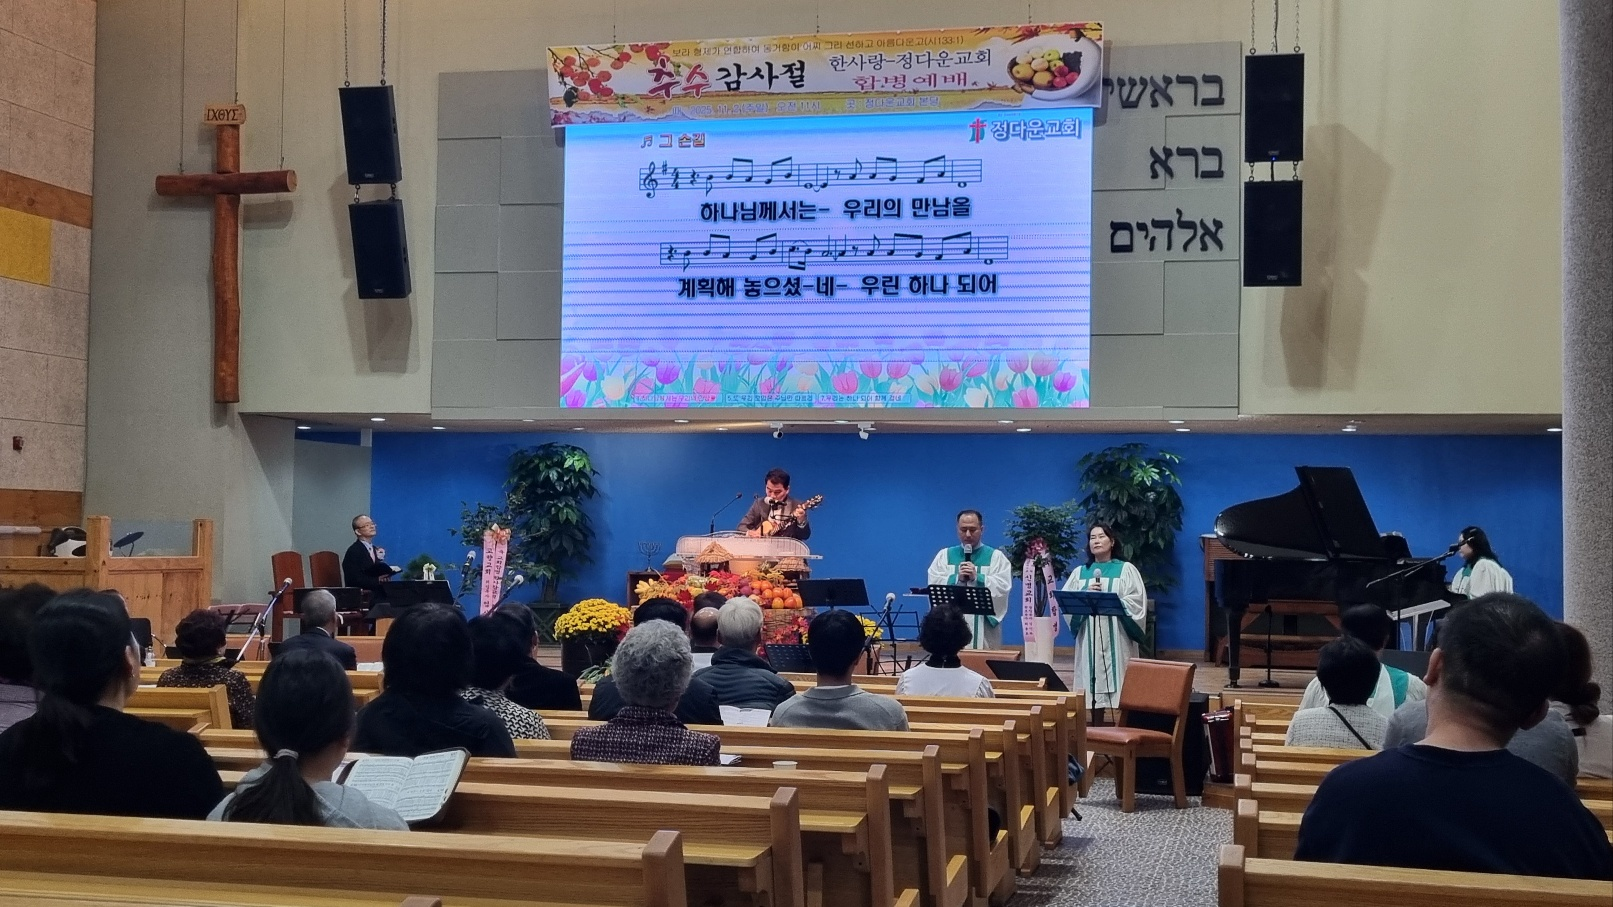
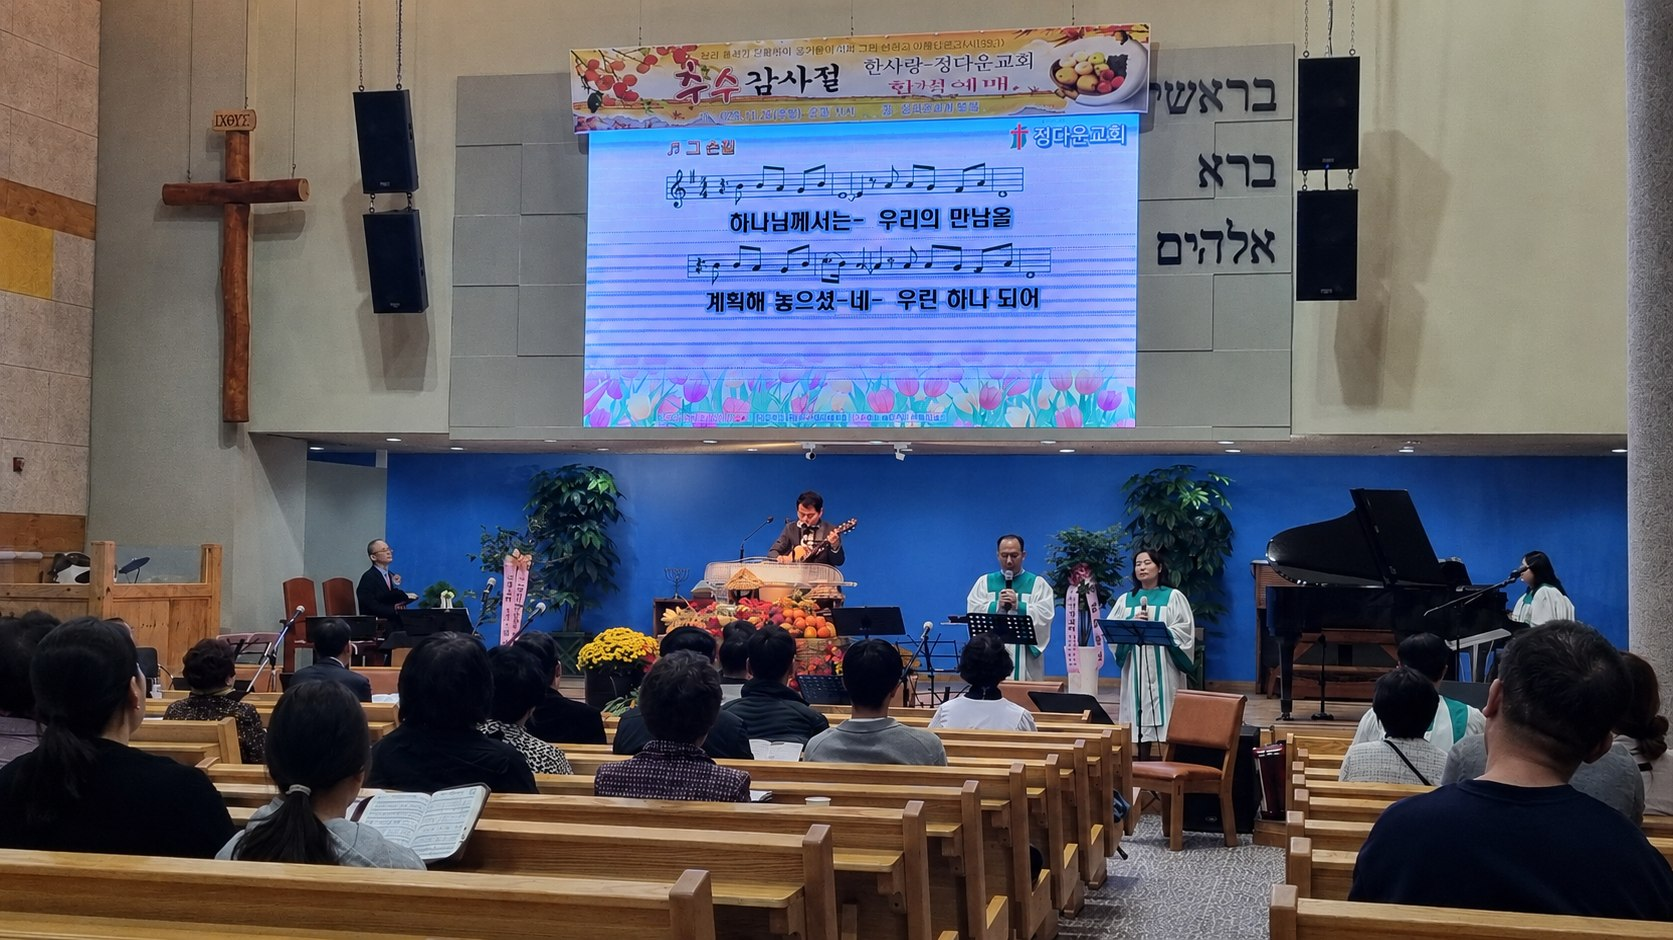
교회소개 사진 교체, 본문 순서 변경(문단 -> 연혁), 헤드라인 문구 수정
- 교회소개 사진을 새로 지정한 이미지로 교체
- 헤드라인 바로 아래에 소개 문단을 배치하고 연혁 목록을 그 다음으로 이동
- 헤드라인을 '누구나 편안하게 찾아올 수 있는 따뜻한 교회입니다'로 변경

diff --git a/index.html b/index.html
@@ -95,16 +95,16 @@
       </div>
       <div class="about-text">
         <p class="label reveal about-intro-label">교회소개</p>
-        <h2 class="block-title about-intro-heading reveal">정이 넘치고 따뜻한 사랑을 나누는 교회입니다</h2>
+        <h2 class="block-title about-intro-heading reveal">누구나 편안하게 찾아올 수 있는 따뜻한 교회입니다</h2>
+        <p class="block-body reveal">
+          정다운교회는 대한예수교장로회(통합)교단에 속해 있으며 1971년 9월 서울대 앞 신림동(일명 고시촌)에서 개척 설립되어 지역사회를 섬기며 특히 고시 청년선교에 힘쓰다가 2011년 11월 안양시 석수동에 교회를 신축 이전한 후 교육·복지·문화사역을 중심으로 지역과 함께하며 예수 그리스도의 사랑과 섬김을 실천하고 있습니다.
+        </p>
         <ul class="history-list reveal">
           <li><span class="history-year">1971년</span><span class="history-desc">교회 설립 (서울시 신림9동 고시촌)</span></li>
           <li><span class="history-year">2000년</span><span class="history-desc">이종운 목사 부임</span></li>
           <li><span class="history-year">2007년</span><span class="history-desc">석수동 성전 부지 매입</span></li>
           <li><span class="history-year">2011년</span><span class="history-desc">성전 건축 및 교회 이전</span></li>
         </ul>
-        <p class="block-body reveal">
-          정다운교회는 대한예수교장로회(통합)교단에 속해 있으며 1971년 9월 서울대 앞 신림동(일명 고시촌)에서 개척 설립되어 지역사회를 섬기며 특히 고시 청년선교에 힘쓰다가 2011년 11월 안양시 석수동에 교회를 신축 이전한 후 교육·복지·문화사역을 중심으로 지역과 함께하며 예수 그리스도의 사랑과 섬김을 실천하고 있습니다.
-        </p>
         <div class="stats reveal">
           <div class="stat">
             <span class="stat-n">1971</span>